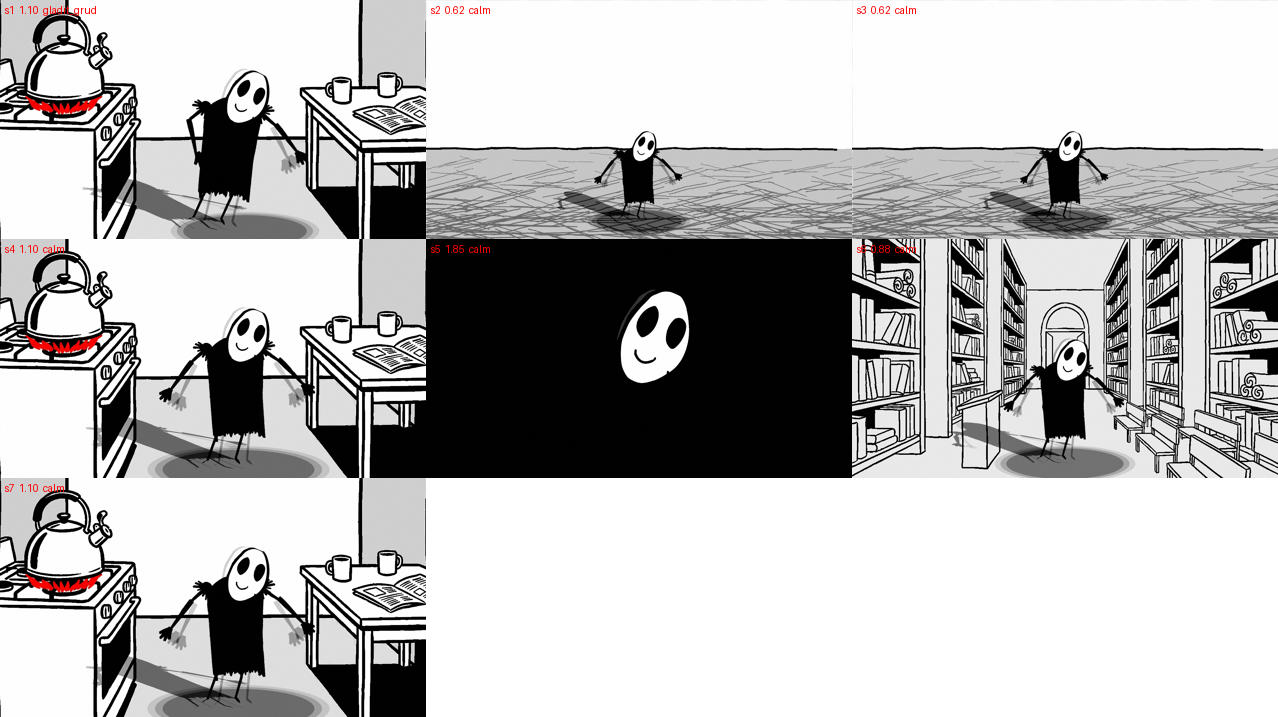
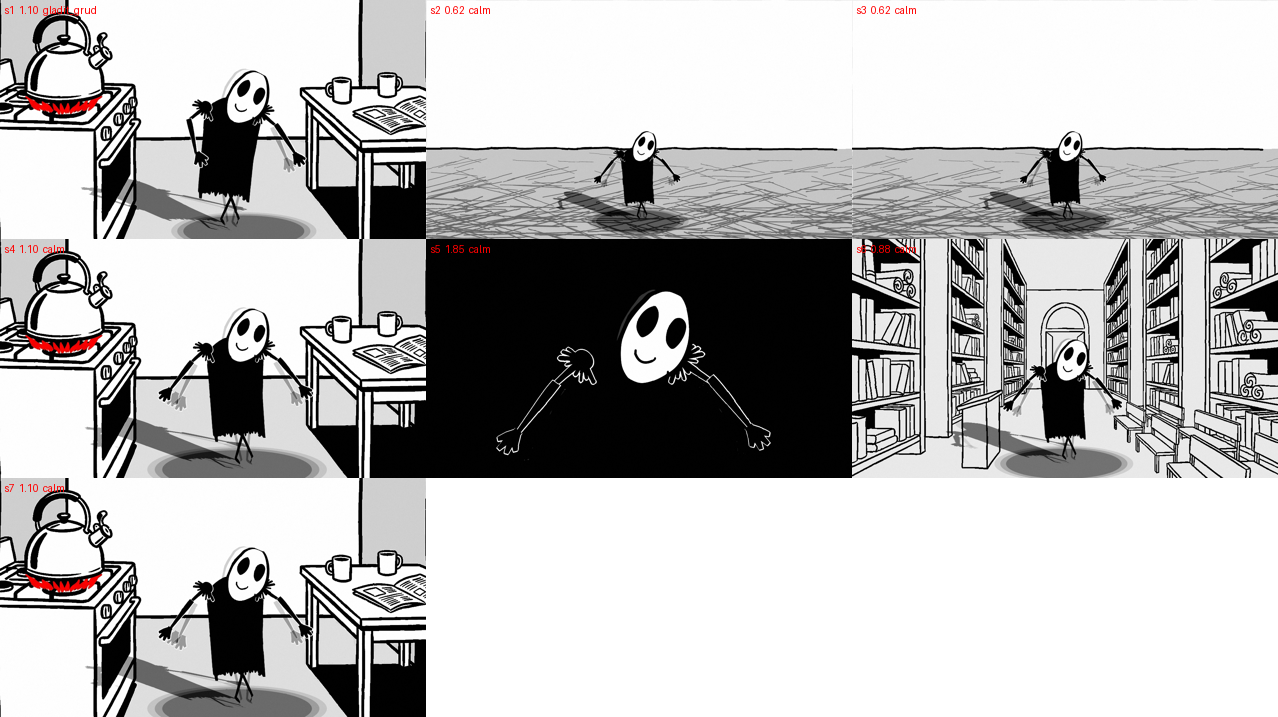
Ролик «Девяносто девятый день» на пересборку: три правки после просмотра [only: lebed]
Студия посмотрела готовый файл и назвала четыре вещи. Две из них — риг и
движок, они лежат в соседних коммитах и касаются всего каталога. Здесь то, что
касается самого ролика.

УДАРЕНИЕ. «Настороже» синтез рвёт надвое: слово редкое, наречие с приставкой,
и это уже третий такой ожог. Стало «Первый день она боится» — чинится ЗАМЕНОЙ,
разметку U+0301 синтез не читает, проверено трижды. Слово добавлено в
script_lint.MISSTRESS, чтобы следующий раз поймал линт, а не студия.

ВЫЧИТКА. Была, и была трижды: правка в одном месте уводит опору из соседнего,
поэтому гоняется весь монолог, а не изменённые строки. Первый прогон снял
«шкуру на кону» (калька), второй проверил, что замена в VO-6 не сломала дугу
соседей, третий нашёл перегруз в VO-15: «Это список прошлых завтраков — один на
всё стадо, и судьба тут ни при чём» — три смысловых довеска на одном дыхании,
и третий на скорости срывался. Стало два удара: «…один на всё стадо. И судьба
тут ни при чём.»

ПОДОЛ. Слой v_upor заменён на vzglyad: он поворачивает торс на 15°, плащ висит
на торсе, ноги крепятся к тазу — кромка уезжала на 13 пикселей при неподвижных
ступнях, пятая часть видимой длины ног. Теперь все 37 накладок ролика держат
кромку в пределах 6 пикселей.

Печати сброшены и поставлены заново: вычитка 13b323ed, мизансцены 08e2b5db —
контактный лист пересобран уже новым движком и просмотрен.

Приёмка: 24 гейта из 24.

Claude-Session: https://claude.ai/code/session_01L6KYpfH3dnZra3BvQXnnqy

diff --git a/tools/pechat.py b/tools/pechat.py
@@ -85,7 +85,9 @@ def postavit_vychitku(path):
     if not m:
         return None, ("в шапке нет строки «**ВЫЧИТКА:**» — сначала напиши, "
                       "ЧТО она нашла, потом ставь печать")
-    t = t[:m.start()] + f"**ВЫЧИТКА (реплики {h}):**" + t[m.end():]
+    # Пробел после печати ставится здесь: сама печать съедает тот, что стоял
+    # в тексте, и абзац каждый раз слипался.
+    t = t[:m.start()] + f"**ВЫЧИТКА (реплики {h}):** " + t[m.end():].lstrip(" ")
     p.write_text(t, encoding="utf-8")
     return h, None
 

diff --git a/RABOTA-NAD-OSHIBKAMI.md b/RABOTA-NAD-OSHIBKAMI.md
@@ -1786,3 +1786,99 @@ SCALES = re.compile(r"^\s*(\w+)\s+scales\s+([\d.]+)\s*$", re.M)
 холодильнику у стены выходило 0.70 на взрослого — и фигура получалась выше
 холодильника. Мерка берётся по предмету на глубине персонажа: кухонный стул
 дал 1.7 метра роста, и проба это подтвердила.
+
+---
+
+## XXXIV. Чёрное на чёрном: жест был, а видно его не было
+
+Студия: «имей ввиду что черное на черном не видно». Плащ чёрный, кисти чёрные,
+и половина жестов идёт ПЕРЕД корпусом. На таком кадре зритель видит, что
+персонаж что-то делает, но не видит, что именно. На чёрной локации (сцена
+«пустота» в «Девяносто девятом дне») пропадали обе руки целиком — в кадре
+висела одна маска.
+
+**Почему это не ловил ни один гейт.** Все мерки читают силуэт по ТУШИ: масштаб,
+разворот, осанка, подол, запас. Рука, слившаяся с плащом, для них не пропала —
+она внутри силуэта, все числа сходятся. Гейты меряют, где фигура; вопрос «что
+из фигуры читается» они не задают ни один.
+
+**Почему нельзя было просто сделать руки белыми.** Это уже пробовали на
+профильных руках и откатили: на светлом поле белая рука становится прозрачной
+проволочкой, а гейт разворота считает профиль на 15% уже нормы. Работает
+только два слоя — чёрная тушь снизу, светлая кайма по её краю сверху.
+
+**Почему кайму не нарисовали руками.** У кисти пять налегающих кусков; обводка
+каждого дала бы белые линии ВНУТРИ ладони, пальцы расчертило бы решёткой.
+`tools/kajma.py` печатает рисунок дважды: сначала его силуэт, раздутый
+feMorphology и залитый цветом бумаги, затем он же тушью поверх. Светлое
+остаётся ровно по внешнему краю, внутри ничего не появляется, и приём одинаково
+работает на заливках (кисти) и на штрихах (рукав-щетина).
+
+**Правило.** Правка рига касается всех роликов сразу, поэтому она делается
+инструментом, а не пятнадцатью ручными правками, и проверяется пробным кадром
+«было / стало» до того, как попадёт в ролик. Пятнадцать одинаковых правок
+руками — это пятнадцать мест, где через месяц окажется четырнадцать.
+
+**Хвост.** `kajma.py --check` роняется, если у кисти или руки каймы нет: новая
+деталь рига, добавленная позже, иначе тихо вернёт брак.
+
+---
+
+## XXXV. Восемьдесят процентов жестов не проигрывались ни разу
+
+Студия, второй раз подряд: «движения ломанные». Подол был первой причиной
+(§XXXIV соседний, гейт `podol.py`), но осталась вторая, и она глубже: жест не
+ломался, он НЕ ПРОИГРЫВАЛСЯ.
+
+**Что происходило.** Переход считался от ПОСЛЕДНЕГО события по времени, каким
+бы это событие ни было. А во время речи события идут сплошняком: рот щёлкает
+виземой на каждый слог, слогов пять-семь в секунду. Жест руки объявлен с
+выдержкой 0.3 с — но через 0.08 с приходит визема, это новое событие, часы
+заводятся заново, и «откуда» берётся не там, где рука сейчас, а там, куда она
+ЕЩЁ ТОЛЬКО ЕХАЛА. Рука мгновенно оказывалась в конечной точке.
+
+Речь занимает восемьдесят процентов хронометража. Значит восемьдесят процентов
+жестов проходили не за свои три десятых секунды, а за один-два кадра.
+
+**Что от этого рассыпалось помимо самой скорости.** Кривая размаха
+`anticipate_back` — замах, удар, перелёт, осадка — считается ПО ДОЛЕ перехода,
+и доля успевала пройти два кадра из семи. Перехлёст, ради которого кисть
+запаздывает за плечом на 22% перехода, отрабатывал на отрезке, где 22% — это
+полкадра. Обе механики были написаны, задокументированы и не работали ни одного
+кадра речи. Это уже второй раз, когда пластика была написана и не исполнялась:
+первый — `smooth_step` внутри интерполяции, съедавший замах и перелёт.
+
+**Как теперь.** Часы у КАЖДОЙ КОСТИ свои. Кость смотрит назад и находит своё
+последнее объявление — тот слой, где она упомянута; от него берётся и время
+начала, и выдержка. Визема трогает `mouth`, значит часы заводятся у рта и
+только у него; рука доигрывает свои 0.3 с, как если бы речи не было.
+
+Перехлёст сложился туда же: задержка кости вычитается из её доли, и вместо
+семи проходов интерполяции на кадр остаётся один.
+
+**Замер.** Проба «жест внутри речи», два бинаря на одном сценарии: кадры
+расходятся ровно в окне 16–23 (до 57‰ площади кадра) и сходятся к 26-му. На
+глаз: на 16-м кадре старый движок уже держит руки в конечной точке, новый ведёт
+их вниз-в-стороны со смазом. Жест идёт семь кадров вместо двух.
+
+**Правило.** Событие ОДНОЙ части тела не имеет права перезаводить часы всему
+телу.
+
+**Чем это сторожится и почему не гейтом по картинке.** Сначала я написал гейт,
+который рендерил стенд «жест внутри речи» и считал, сколько кадров жест живёт.
+Он показал десять кадров на НОВОМ движке и десять на СТАРОМ, то есть не мерил
+ничего: во время речи тело плывёт целиком — дышит корпус, качается голова,
+щёлкает рот, — и «кадр отличается от соседнего» верно всегда. Сузил замер до
+крайних третей кадра, где только руки, — те же десять и десять. Мерка по
+картинке здесь бессильна: разница между «жест идёт семь кадров» и «жест
+прыгнул за два» тонет в постоянном шевелении.
+
+Сторожит это ТЕСТ ДВИЖКА (`renderer::proba::vizema_ne_zavodit_chasy_ruke`):
+жест на 0.30 с, следом две виземы через 0.08 с, и проверяется, что через
+0.10 с рука в пути, а рот свои 0.04 с уже отсчитал. Верни старую модель — рука
+получит долю виземы, 0.875, и тест упадёт. Он идёт доли секунды и добавлен в
+CI: тест, который не гоняют, — украшение.
+
+**Хвост.** Мерка по пикселям хороша там, где дефект СТОИТ НЕПОДВИЖНО (масштаб,
+запас, подол, цвет). Там, где дефект — это неверная СКОРОСТЬ на фоне общего
+движения, мерить надо не картинку, а число, из которого картинка считается.

diff --git a/CLAUDE.md b/CLAUDE.md
@@ -133,6 +133,29 @@ Rust-движок `animdsl` плюс питоновская оснастка. Н
 14–28 секунд. Правило задаёт **ЧАСЫ, а не ЗАРЯД**: чем бить на засечке, решает
 эмоция ролика.
 
+## У каждой кости свои часы
+
+Событие одной части тела не заводит часы всему телу. Кость смотрит назад и
+находит СВОЁ последнее объявление — тот слой, где она упомянута, — и от него
+берёт время начала и выдержку. Иначе визема, приходящая каждый слог, заводила
+часы руке, и жест доезжал не за свои 0.3 с, а за 0.08 с до следующего слога:
+восемьдесят процентов жестов не проигрывались ни разу (реестр §XXXV).
+
+## Чёрное на чёрном не видно
+
+Плащ чёрный, кисти чёрные, половина жестов идёт перед корпусом — рука пропадает
+целиком, и ни одна мерка этого не ловит: все они читают силуэт по туши, а рука
+внутри силуэта. Руки и кисти обшиты **светлой каймой** — чёрная тушь снизу,
+линия цвета бумаги по её краю сверху (`tools/kajma.py`, реестр §XXXIV). Целиком
+белая рука не годится: на светлом поле она становится прозрачной проволочкой.
+
+## Имя выходного файла — курс, а не id
+
+`id` продакшена («lebed») — короткое рабочее имя: маркер `[only: …]`, гейты,
+голдены. В релизе оно не говорит ничего, поэтому файлы называются полем `kurs`
+из манифеста — тем же слагом, что в адресе курса на сайте:
+`chernyj-lebed.mp4` — готовый ролик, `chernyj-lebed-nemoj.mp4` — без звука.
+
 ## Цветной предмет — один на ролик
 
 Локация остаётся чёрно-белой целиком; цветной делается **ВЕЩЬ**, а не кадр. Не
